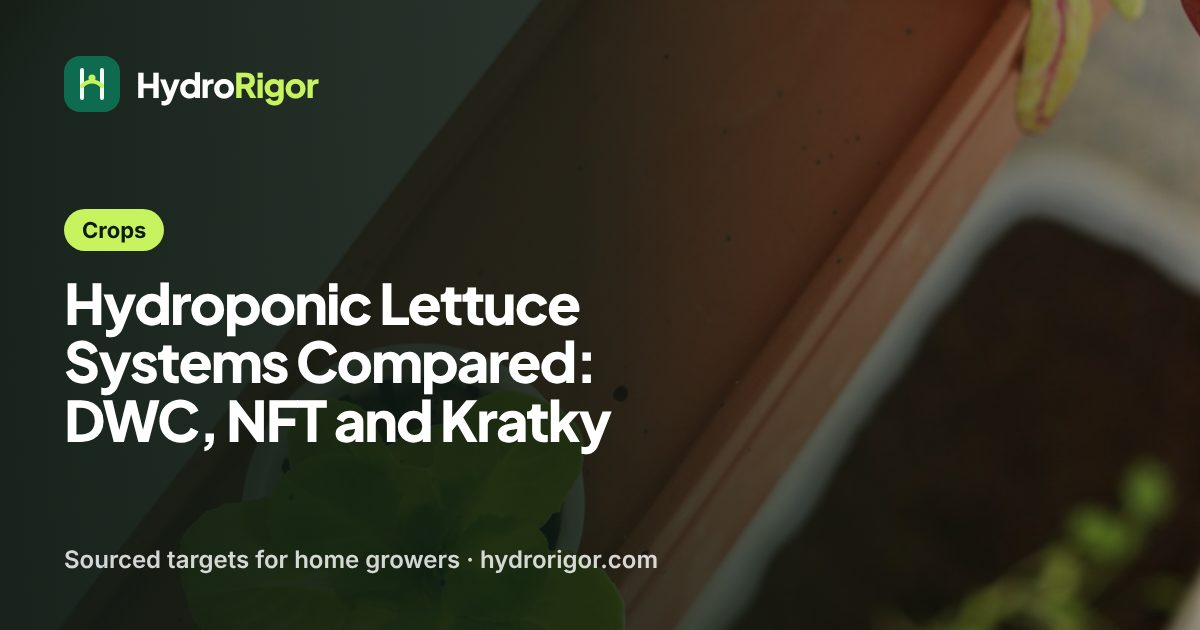
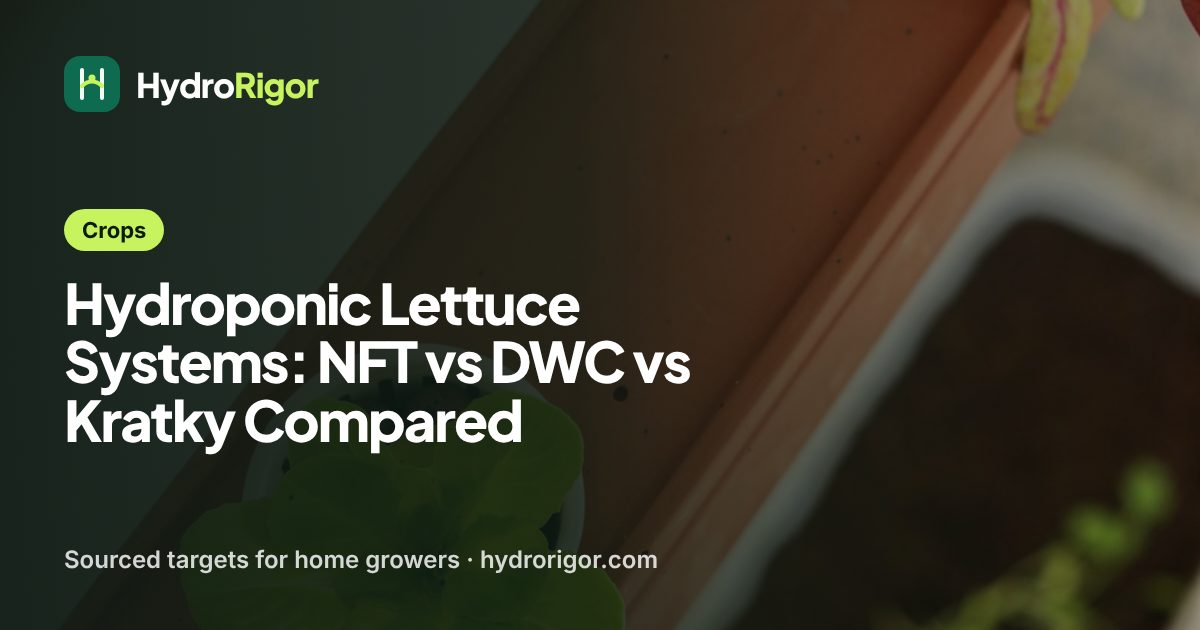
Rebuild lettuce systems guide: NFT vs DWC vs Kratky with sourced numbers
Claude-Session: https://claude.ai/code/session_011zSWQvQfPRRY9AmsnMgAxv

Changed region(s): [[0.0617, 0.5429, 0.5858, 0.7238]]

diff --git a/src/data/m06-content.ts b/src/data/m06-content.ts
@@ -26,7 +26,7 @@ const items = [
   [6, 'articles', 'crops', 'Hydroponic Strawberries: pH, EC, Light & Variety Guide', 'hydroponic-strawberries', 'informational', 'hydroponic strawberries', 'VERIFIED_2026-09-12', 8100, 14, ['ua-strawberry-irrigation', 'ua-strawberry-environment', 'ua-strawberry-lighting', 'cornell-indoor-strawberry-basics', 'ua-ceac-berries-cea', 'cornell-strawberry-runners', 'umn-day-neutral-strawberries', 'umn-strawberry-plant-growth', 'illinois-strawberry-observations', 'mu-hydroponic-farming'], ['/tools/ph-ec-targets/']],
   [7, 'articles', 'crops', 'NFT Hydroponic Strawberries: Slope, Flow, pH & EC Setup', 'nft-hydroponic-strawberries', 'informational', 'nft hydroponic strawberries', 'VERIFIED_2026-09-12', 390, 15, ['purdue-hydroponics-opportunities-2016', 'sato-modified-nft-2007', 'osu-hydro-hints-nft', 'vt-nft-systems', 'mu-hydroponic-farming', 'ua-strawberry-irrigation', 'ua-strawberry-environment', 'ua-ceac-berries-cea', 'cornell-indoor-strawberry-basics', 'cornell-strawberry-runners', 'osu-ph-ec-guide', 'okstate-vertical-tower-hla6724', 'purdue-supplemental-light-lettuce', 'illinois-strawberry-observations', 'umn-day-neutral-strawberries', 'umn-strawberry-plant-growth'], ['/tools/ph-ec-targets/', '/tools/nutrient-mixing-calculator/']],
   [8, 'articles', 'crops', 'Hydroponic Lettuce: pH, EC, Light & Best Varieties', 'hydroponic-lettuce', 'informational', 'hydroponic lettuce', 'VERIFIED_2026-09-12', 4400, 27, ['uky-hydroponic-lettuce', 'ifas-lettuce-small-systems', 'ifas-lettuce-cultivars', 'kratky-noncirculating-lettuce', 'mu-hydroponic-farming'], ['/tools/ph-ec-targets/']],
-  [9, 'articles', 'crops', 'Hydroponic Lettuce Systems Compared: DWC, NFT and Kratky', 'hydroponic-lettuce-systems', 'transactional research', 'hydroponic lettuce systems', 'VERIFIED_2026-09-12', 1000, 28, ['ifas-lettuce-small-systems', 'ifas-lettuce-cultivars', 'mu-hydroponic-farming'], []],
+  [9, 'articles', 'crops', 'Hydroponic Lettuce Systems: NFT vs DWC vs Kratky Compared', 'hydroponic-lettuce-systems', 'transactional research', 'hydroponic lettuce systems', 'VERIFIED_2026-09-12', 1000, 28, ['uky-hydroponic-lettuce', 'ifas-lettuce-small-systems', 'ifas-kratky-set-and-forget', 'kratky-noncirculating-lettuce', 'vt-system-crop-comparisons', 'purdue-hydroponics-opportunities-2016', 'sato-modified-nft-2007', 'osu-hydro-hints-nft', 'osu-hydro-hints-dwc', 'okstate-hydroponics-hla6442', 'mu-hydroponic-farming', 'purdue-supplemental-light-lettuce', 'egro-lettuce-tipburn-2023', 'okstate-vertical-tower-hla6724', 'touliatos-vertical-lettuce-2016', 'cornell-cea-lettuce-handbook', 'ifas-lettuce-cultivars'], []],
   [10, 'articles', 'crops', 'Hydroponic Lettuce Seeds: Varieties, Germination & Storage', 'hydroponic-lettuce-seeds', 'transactional research', 'hydroponic lettuce seed', 'VERIFIED_2026-09-12', 2400, 20, ['uky-hydroponic-lettuce', 'ifas-lettuce-cultivars', 'ifas-lettuce-small-systems', 'egro-lettuce-tipburn-2023', 'cornell-cea-lettuce-handbook', 'unl-seed-storage-germination', 'illinois-seed-viability', 'sdsu-seed-storage', 'ifas-thermodormancy'], []],
   [11, 'articles', 'crops', 'Hydroponic Tomatoes: pH, EC, Light, Spacing & Pruning', 'hydroponic-tomatoes', 'transactional research', 'hydroponic tomatoes', 'VERIFIED_2026-09-12', 1900, 29, ['tennessee-fruiting-crops', 'aces-greenhouse-tomato-anr2955', 'utk-trust-tomato-density-2012', 'vt-management-basics-spes462', 'vt-system-crop-comparisons', 'purdue-supplemental-light-lettuce', 'osu-ph-ec-guide', 'ifas-hydroponic-tomato-formulation', 'osu-hydro-hints-buckets', 'ifas-volusia-dwc-bucket', 'msstate-blossom-end-rot', 'mu-hydroponic-farming'], ['/tools/ph-ec-targets/']],
   [12, 'articles', 'crops', 'Hydroponic Tomato Seeds: Varieties That Fit Indoor Systems', 'hydroponic-tomato-seeds', 'transactional research', 'hydroponic tomatoes seeds', 'VERIFIED_2026-09-12', 480, 16, ['ifas-tomato-cultivars', 'usu-indoor-tomatoes', 'tennessee-fruiting-crops'], []],

diff --git a/.agent/state/CURRENT_HANDOFF.md b/.agent/state/CURRENT_HANDOFF.md
@@ -1,6 +1,6 @@
 # Current Handoff
 
-Updated: 2026-11-11
+Updated: 2026-11-12
 
 ## State
 
@@ -77,6 +77,8 @@ Updated: 2026-11-11
 
 Guides published by automated runs under `HydroRigor Editorial`. When Najeeb has read one
 and approves, switch its byline to `Najeeb`.
+
+- `/crops/hydroponic-lettuce-systems/` — "Hydroponic Lettuce Systems: NFT vs DWC vs Kratky Compared" (rebuild, 2026-11-12). Answer by number of plants (Kratky 1–3, DWC raft for a tray, NFT for rows), system comparison table, NFT numbers (slope, flow, length, heat and oxygen along the run) for "nutrient film hydroponic system", DLI-versus-yield table, step-by-step, troubleshooting and FAQ; two new diagrams (three-system cross-section; NFT channel numbers). Source conflicts shown and resolved on the page: NFT slope (Purdue 1:100 vs Oregon State 2% minimum; page suggests 2%), DWC oxygen (VT 7–10, Kentucky 6–8, UF/IFAS 5), lettuce DLI (Kentucky 12–17, Purdue 15–20, VT 17+), root-zone temperature (Sato's cited 13–18 °C vs UF/IFAS 65–80 °F). No source gives a home NFT plant spacing; the page says so. Web pages could not be opened in this run (fetch permission timed out), so every figure comes from 17 registered sources. Photo kept. Pinterest row: `docs/marketing/pinterest/pins-lettuce-systems-2026-11-14.csv`.
 
 - `/best/hydroponic-systems-for-beginners/` (rebuilt 2026-11-12; Pinterest row `docs/marketing/pinterest/pins-beginners-2026-11-13.csv`): Kratky-first answer, systems ranked by
   what happens when something goes wrong, buy-or-build table, first-grow timeline, 10 sources.

diff --git a/.agent/state/CURRENT_MILESTONE.md b/.agent/state/CURRENT_MILESTONE.md
@@ -79,7 +79,7 @@ impressions in 28 days).
 13. [x] `/best/hydroponic-systems-for-sale/` — rebuilt 2026-11-11 ("Hydroponic Systems for Sale: 9 Checks Before You Buy"). "hydroponic system sale" 1,600 / 24;
         "hydroponic system for sale" 1,300 / 28.
 14. [x] `/best/hydroponic-systems-for-beginners/` — rebuilt 2026-11-12 ("Best Hydroponic System for Beginners: What to Start With"). Search Console: 6 impressions, position 46.5.
-15. [ ] `/crops/hydroponic-lettuce-systems/` — rebuild. "nutrient film hydroponic system" 1,300 / 30;
+15. [x] `/crops/hydroponic-lettuce-systems/` — rebuilt 2026-11-12 ("Hydroponic Lettuce Systems: NFT vs DWC vs Kratky Compared"). "nutrient film hydroponic system" 1,300 / 30;
         hydroponic lettuce systems (1,000, difficulty 28).
 16. [ ] `/nutrients-water/hydroponic-nutrient-solution/` — rebuild. "hydroponic nutrients solution" 720 / 25.
 17. [ ] New guide, plan ID 28: Kratky hydroponics (supports the Kratky sections of three rebuilt guides).
